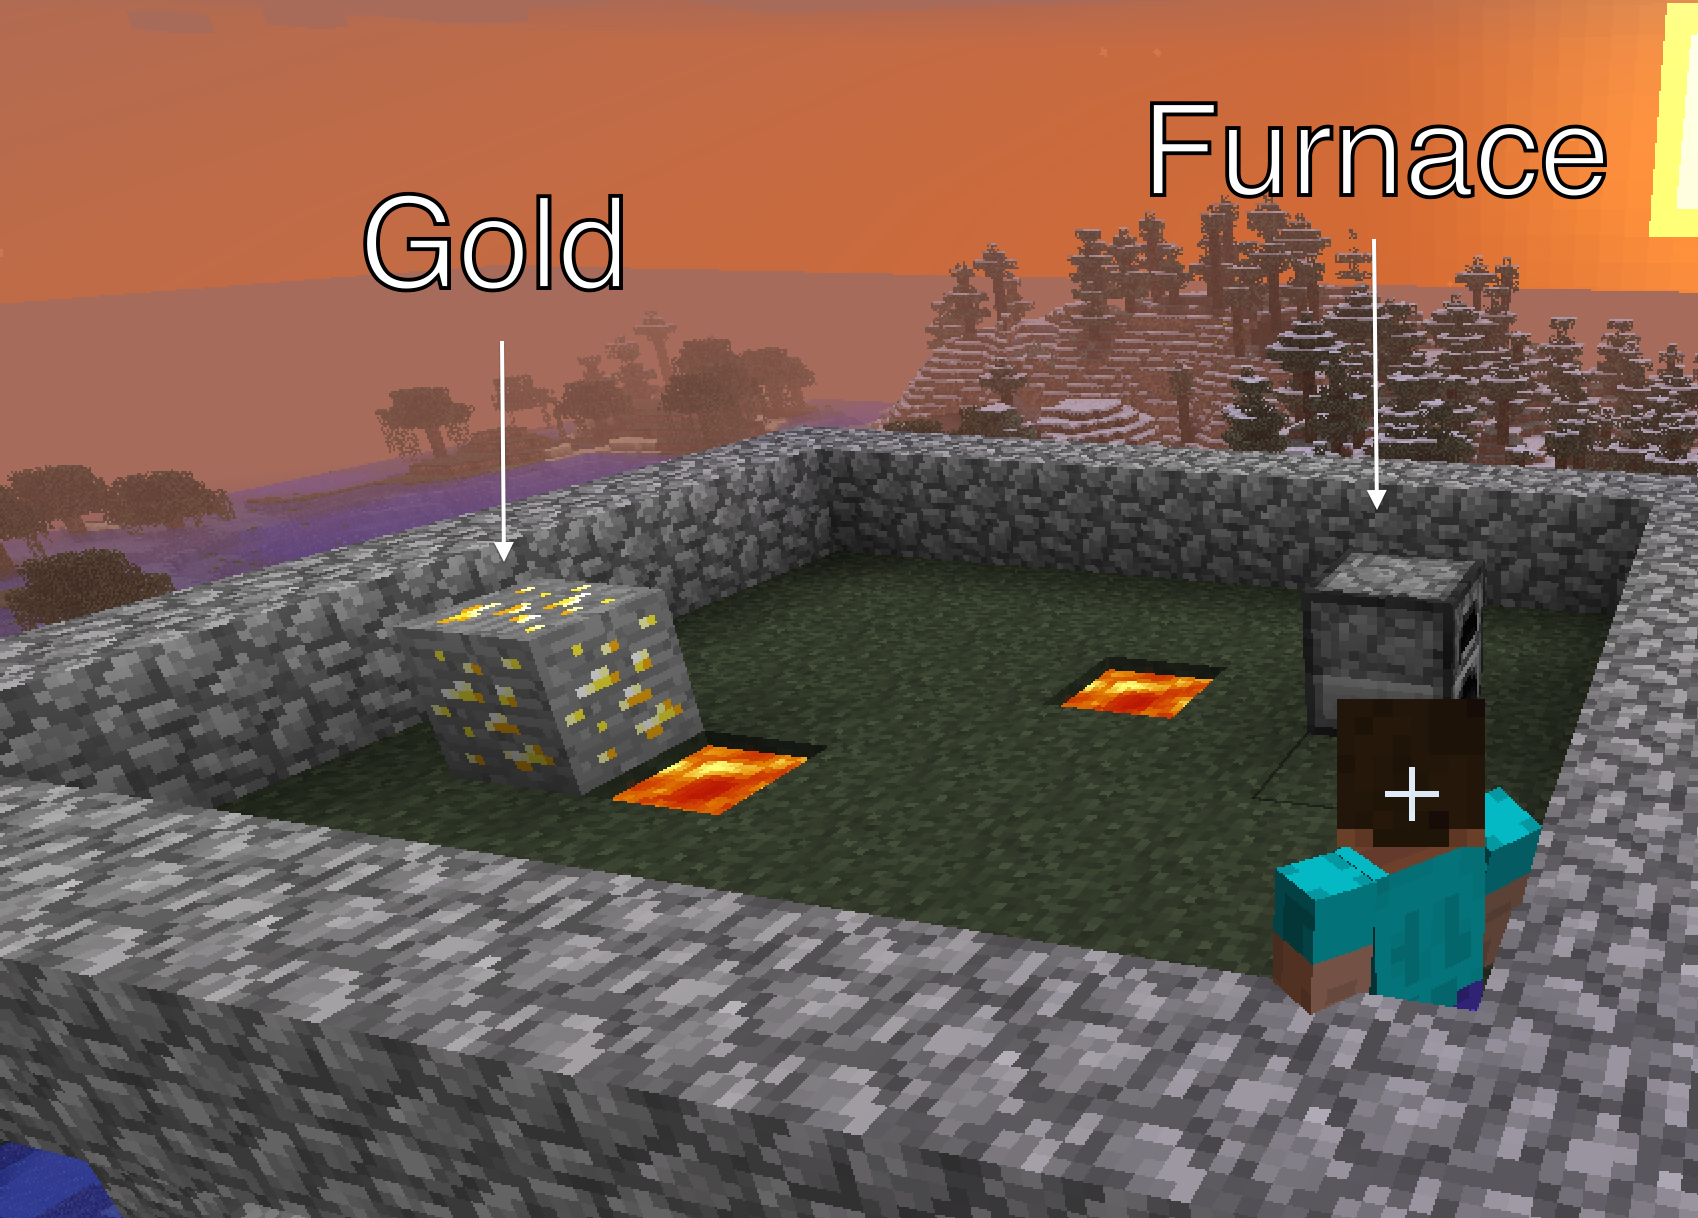
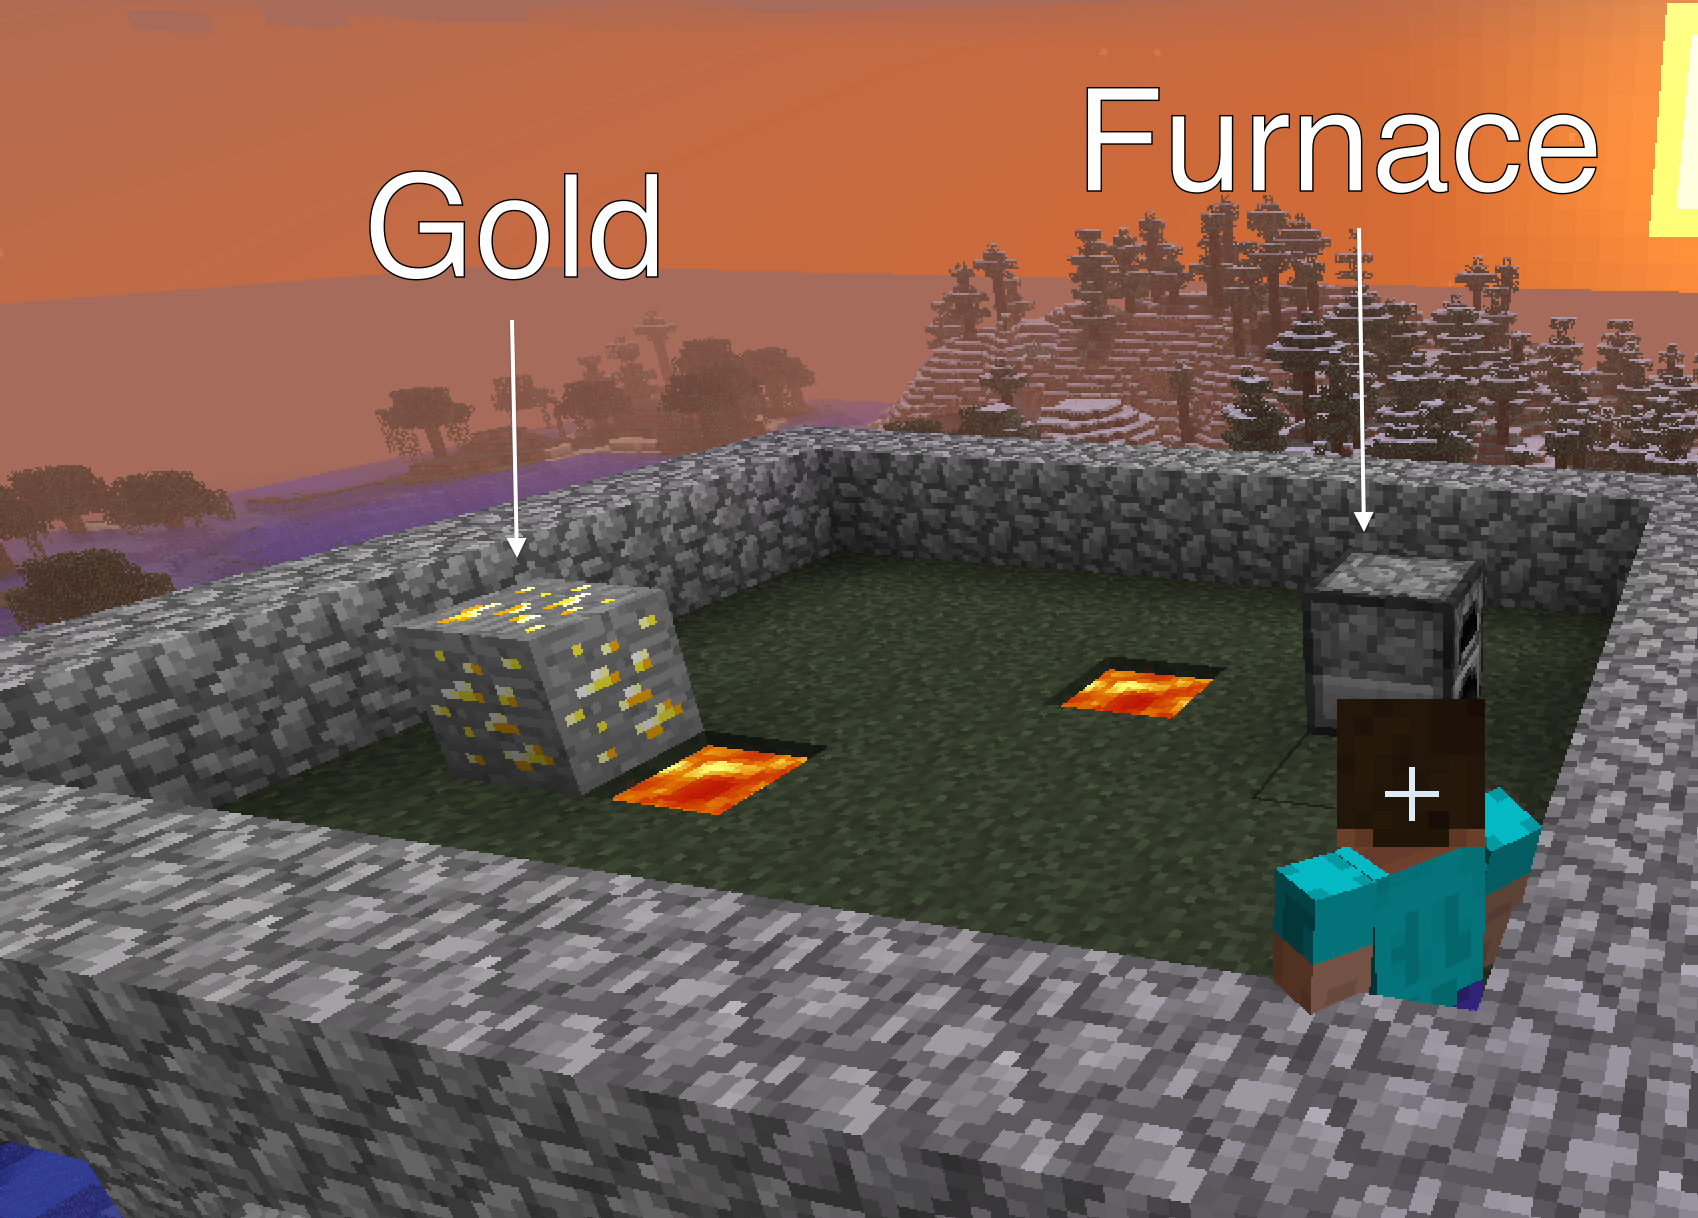
Updating minecraft figure with larger text

diff --git a/papers/aaai_2015/aaai_2015.tex b/papers/aaai_2015/aaai_2015.tex
@@ -426,7 +426,7 @@ when trying to smelt gold and looking at gold ore, but not in other situations (
 % -- Figure: Minecraft pic --
 \begin{figure}[b]
 \centering
-\includegraphics[scale=0.08]{figures/smelting_labeled_2.png}%
+\includegraphics[scale=0.08]{figures/smelting_labeled.png}%
   \caption{A gold smelting task in the Minecraft domain.  The agent's
     goal is to mine a block of gold, move to the forge and then smelt
     the gold in the forge to produce gold ingots.}
